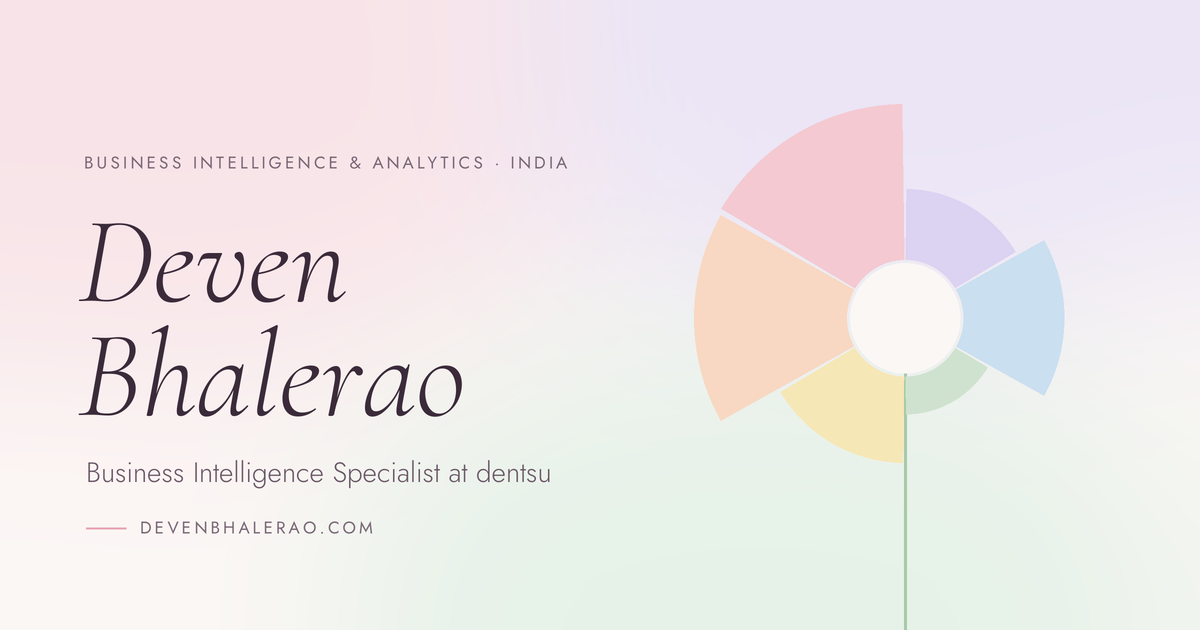
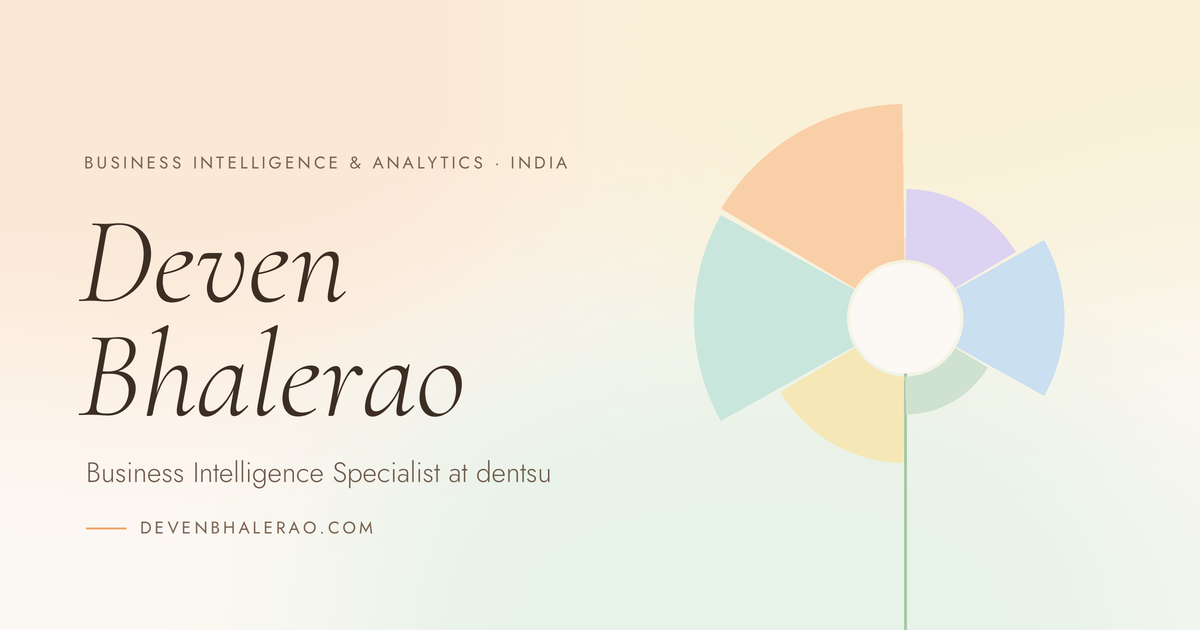
Warm the palette: apricot instead of pink
- Accent pastel blush becomes apricot (#f9cfa8 / #f0a96e): nav underlines,
  hovers, bullets, the award star, the email underline and the dentsu colour.
- Plum-tinted neutrals become warm browns; light paper is a creamier
  #fcf8f3, dark mode a warm charcoal #1a1612. Text contrast stays above
  4.5:1 in both themes.
- Chart colours stay distinct: JLL moves from peach to mint, the BI skill
  group from pink to lilac, the certification seal to butter, and the
  project kinds swap so apps are apricot and AI is mint.
- Background glows, favicon and og.png follow the new palette.
- Tokens renamed --blush/--peach to --apricot/--mint; styles.css and
  main.js bumped to ?v=4.

diff --git a/styles.css b/styles.css
@@ -21,45 +21,45 @@
   --gutter: clamp(16px, 5vw, 64px);
 
   /* Pastels stay the same in both themes */
-  --blush: #f4c9d1; --peach: #f8d8c2; --butter: #f6e7b6; --sage: #cfe2cf; --sky: #cadff0; --lilac: #dcd2f1;
-  --blush-d: #e9a5b4; --peach-d: #efbc9a; --butter-d: #e8d38a; --sage-d: #a8cfa8; --sky-d: #9fc4e4; --lilac-d: #b9aee0;
+  --apricot: #f9cfa8; --mint: #c9e6dc; --butter: #f6e7b6; --sage: #cfe2cf; --sky: #cadff0; --lilac: #dcd2f1;
+  --apricot-d: #f0a96e; --mint-d: #93cbb9; --butter-d: #e8d38a; --sage-d: #a8cfa8; --sky-d: #9fc4e4; --lilac-d: #b9aee0;
 
   /* Light theme */
   color-scheme: light;
-  --paper: #fbf7f5;
+  --paper: #fcf8f3;
   --panel: #ffffff;
-  --panel-2: #f7f1f3;
-  --ink: #3b2b3a;
-  --ink-2: #6b5868;
-  --ink-3: #7a6877;
-  --rule: #ecdfe4;
-  --rule-2: #e0d2d9;
-  --accent: #a24d6d;
-  --accent-soft: rgba(233, 165, 180, .22);
+  --panel-2: #f8f2ea;
+  --ink: #3d2e24;
+  --ink-2: #6e5a4c;
+  --ink-3: #7a6352;
+  --rule: #eee2d6;
+  --rule-2: #e3d3c3;
+  --accent: #a9531f;
+  --accent-soft: rgba(240, 169, 110, .22);
   --petal-core: #ffffff;
   --stem: #a9c9a8;
   --glow: .55;
-  --shadow: 0 1px 2px rgba(60, 30, 60, .06), 0 24px 50px -34px rgba(80, 40, 70, .35);
+  --shadow: 0 1px 2px rgba(70, 40, 20, .06), 0 24px 50px -34px rgba(90, 50, 25, .35);
 }
 
 @media (prefers-color-scheme: dark) {
   :root:not([data-theme="light"]) {
     color-scheme: dark;
-    --paper: #17141f; --panel: #201c2b; --panel-2: #262033;
-    --ink: #f1e9f1; --ink-2: #c4b6c6; --ink-3: #9d90a2;
-    --rule: #302a3c; --rule-2: #3c3449;
-    --accent: #f0b8c8; --accent-soft: rgba(240, 184, 200, .14);
-    --petal-core: #2a2436; --stem: #86a886; --glow: .16;
+    --paper: #1a1612; --panel: #231e19; --panel-2: #2a241e;
+    --ink: #f3ebe2; --ink-2: #c9baa9; --ink-3: #a39383;
+    --rule: #342c25; --rule-2: #41372e;
+    --accent: #f6bf8f; --accent-soft: rgba(246, 191, 143, .14);
+    --petal-core: #2d261f; --stem: #86a886; --glow: .16;
     --shadow: 0 1px 2px rgba(0, 0, 0, .3), 0 24px 50px -30px rgba(0, 0, 0, .65);
   }
 }
 :root[data-theme="dark"] {
   color-scheme: dark;
-  --paper: #17141f; --panel: #201c2b; --panel-2: #262033;
-  --ink: #f1e9f1; --ink-2: #c4b6c6; --ink-3: #9d90a2;
-  --rule: #302a3c; --rule-2: #3c3449;
-  --accent: #f0b8c8; --accent-soft: rgba(240, 184, 200, .14);
-  --petal-core: #2a2436; --stem: #86a886; --glow: .16;
+  --paper: #1a1612; --panel: #231e19; --panel-2: #2a241e;
+  --ink: #f3ebe2; --ink-2: #c9baa9; --ink-3: #a39383;
+  --rule: #342c25; --rule-2: #41372e;
+  --accent: #f6bf8f; --accent-soft: rgba(246, 191, 143, .14);
+  --petal-core: #2d261f; --stem: #86a886; --glow: .16;
   --shadow: 0 1px 2px rgba(0, 0, 0, .3), 0 24px 50px -30px rgba(0, 0, 0, .65);
 }
 
@@ -86,8 +86,8 @@ body::before {
   z-index: -1;
   opacity: var(--glow);
   background:
-    radial-gradient(40vw 30vh at 16% 26%, #f7dbe2, transparent 70%),
-    radial-gradient(36vw 28vh at 74% 16%, #e3dcf6, transparent 70%),
+    radial-gradient(40vw 30vh at 16% 26%, #fbe0c8, transparent 70%),
+    radial-gradient(36vw 28vh at 74% 16%, #f8ecc9, transparent 70%),
     radial-gradient(34vw 26vh at 52% 58%, #dcefe2, transparent 70%);
   filter: blur(10px);
 }
@@ -101,7 +101,7 @@ strong { font-weight: 500; }
 img, svg { display: block; max-width: 100%; }
 button { font: inherit; color: inherit; }
 :focus-visible { outline: 2px solid var(--accent); outline-offset: 3px; border-radius: 6px; }
-::selection { background: var(--blush); color: #3b2b3a; }
+::selection { background: var(--apricot); color: #3d2e24; }
 .mono { font-family: ui-monospace, 'SF Mono', Menlo, Consolas, monospace; font-size: .9em; }
 .sr-only, .enhanced .roles, .enhanced .honours {
   position: absolute !important; width: 1px; height: 1px; padding: 0; margin: -1px;
@@ -140,11 +140,11 @@ html:not(.motion-on) { scroll-behavior: auto; }
   font: 400 italic 17px/1 var(--display); letter-spacing: .02em; color: var(--ink);
   transition: border-color .4s var(--calm), transform .4s var(--calm);
 }
-.monogram:hover { border-color: var(--blush-d); transform: translateY(-1px); }
+.monogram:hover { border-color: var(--apricot-d); transform: translateY(-1px); }
 .topnav { margin-left: auto; display: flex; gap: clamp(14px, 2.4vw, 30px); font-size: 14.5px; overflow-x: auto; scrollbar-width: none; }
 .topnav::-webkit-scrollbar { display: none; }
 .topnav a { color: var(--ink-2); white-space: nowrap; padding-block: 4px; position: relative; transition: color .3s var(--calm); }
-.topnav a::after { content: ''; position: absolute; left: 0; right: 100%; bottom: 0; height: 1.5px; border-radius: 2px; background: var(--blush-d); transition: right .4s var(--calm); }
+.topnav a::after { content: ''; position: absolute; left: 0; right: 100%; bottom: 0; height: 1.5px; border-radius: 2px; background: var(--apricot-d); transition: right .4s var(--calm); }
 .topnav a:hover, .topnav a.is-active { color: var(--ink); }
 .topnav a:hover::after, .topnav a.is-active::after { right: 0; }
 .theme-toggle {
@@ -152,7 +152,7 @@ html:not(.motion-on) { scroll-behavior: auto; }
   background: transparent; border: 1px solid var(--rule-2); border-radius: 50%;
   color: var(--ink-2); cursor: pointer; transition: border-color .4s var(--calm), color .4s var(--calm);
 }
-.theme-toggle:hover { border-color: var(--blush-d); color: var(--ink); }
+.theme-toggle:hover { border-color: var(--apricot-d); color: var(--ink); }
 .theme-toggle svg { width: 17px; height: 17px; grid-area: 1 / 1; fill: none; stroke: currentColor; stroke-width: 1.7; stroke-linecap: round; stroke-linejoin: round; transition: opacity .4s var(--calm), transform .4s var(--calm); }
 /* The icon shows the theme the button switches to: a moon in light, a sun in dark. */
 .icon-sun { opacity: 0; transform: rotate(-40deg) scale(.6); }
@@ -172,7 +172,7 @@ html:not(.motion-on) { scroll-behavior: auto; }
   transition: border-color .4s var(--calm), transform .4s var(--calm);
 }
 .btn svg { width: 16px; height: 16px; fill: none; stroke: currentColor; stroke-width: 1.8; stroke-linecap: round; stroke-linejoin: round; }
-.btn:hover { border-color: var(--blush-d); transform: translateY(-1px); }
+.btn:hover { border-color: var(--apricot-d); transform: translateY(-1px); }
 .btn-primary { background: var(--ink); color: var(--paper); border-color: var(--ink); }
 .btn-primary:hover { border-color: var(--ink); }
 .btn-ghost { background: transparent; }
@@ -196,7 +196,7 @@ main { display: block; }
 }
 .js .info { display: inline-grid; }
 .info::before { content: ''; position: absolute; inset: -9px; border-radius: 50%; }
-.info:hover, .info.tip-on { border-color: var(--blush-d); color: var(--ink); }
+.info:hover, .info.tip-on { border-color: var(--apricot-d); color: var(--ink); }
 .chips { display: flex; flex-wrap: wrap; gap: 6px; }
 .chips li { padding: 5px 11px; border: 1px solid var(--rule); border-radius: 999px; background: var(--panel-2); font: 400 12.5px/1.25 var(--sans); color: var(--ink-2); }
 
@@ -281,9 +281,9 @@ main { display: block; }
 .ec-role { font-weight: 400; }
 .ec-pts { display: grid; gap: 8px; color: var(--ink-2); font-size: 15.5px; line-height: 1.6; }
 .ec-pts li { position: relative; padding-left: 18px; }
-.ec-pts li::before { content: ''; position: absolute; left: 2px; top: .72em; width: 6px; height: 6px; border-radius: 50%; background: var(--blush-d); }
+.ec-pts li::before { content: ''; position: absolute; left: 2px; top: .72em; width: 6px; height: 6px; border-radius: 50%; background: var(--apricot-d); }
 .ec-award { font-size: 15px; }
-.ec-award span { color: var(--blush-d); margin-right: 4px; }
+.ec-award span { color: var(--apricot-d); margin-right: 4px; }
 /* The roles list is the source for the chart. With JavaScript it's kept for screen readers only. */
 .roles { display: grid; gap: 30px; margin-top: 12px; }
 .roles > li { display: grid; gap: 8px; padding-left: 18px; border-left: 2px solid var(--rule-2); }
@@ -347,7 +347,7 @@ main { display: block; }
   background: var(--panel); border: 1px solid var(--rule); border-radius: 22px; box-shadow: var(--shadow);
   transition: transform .6s var(--calm), border-color .6s var(--calm);
 }
-a.proj:hover { transform: translateY(-3px); border-color: var(--blush-d); }
+a.proj:hover { transform: translateY(-3px); border-color: var(--apricot-d); }
 .proj-ring { display: block; width: 76px; height: 76px; }
 .proj-ring:empty { display: none; }
 .proj-ring svg { width: 100%; height: 100%; overflow: visible; }
@@ -362,7 +362,7 @@ a.proj:hover .ring-rot, a.proj:focus-visible .ring-rot { transform: rotate(120de
   transition: border-color .5s var(--calm), color .5s var(--calm);
 }
 .proj-go svg { width: 14px; height: 14px; fill: none; stroke: currentColor; stroke-width: 1.8; stroke-linecap: round; stroke-linejoin: round; transition: transform .5s var(--calm); }
-a.proj:hover .proj-go, a.proj:focus-visible .proj-go { border-color: var(--blush-d); color: var(--ink); }
+a.proj:hover .proj-go, a.proj:focus-visible .proj-go { border-color: var(--apricot-d); color: var(--ink); }
 a.proj:hover .proj-go svg, a.proj:focus-visible .proj-go svg { transform: translate(1.5px, -1.5px); }
 .proj-name { font: 400 italic 1.45rem/1.12 var(--display); margin-top: 4px; }
 .proj-desc { font-size: 14.5px; line-height: 1.6; color: var(--ink-2); }
@@ -399,8 +399,8 @@ a.proj:hover .proj-go svg, a.proj:focus-visible .proj-go svg { transform: transl
 .motion-on .run .seal.rev .sl-ring { animation-direction: reverse; }
 .seal:hover .sl-ring, .seal:focus-visible .sl-ring, .seal.tip-on .sl-ring, .rr.hl .sl-ring { animation-play-state: paused; }
 @keyframes spin { to { transform: rotate(360deg); } }
-.sl-tx { font: 500 8.5px var(--sans); letter-spacing: .1em; fill: #3b2b3a; opacity: .85; }
-.sl-c { font: 400 18px var(--display); fill: #3b2b3a; }
+.sl-tx { font: 500 8.5px var(--sans); letter-spacing: .1em; fill: #3d2e24; opacity: .85; }
+.sl-c { font: 400 18px var(--display); fill: #3d2e24; }
 /* The list the seals are built from; readable on its own without JavaScript */
 .honours { display: grid; gap: 14px; margin-top: 8px; }
 .honours li { display: grid; gap: 2px; padding-left: 16px; border-left: 2px solid var(--rule-2); }
@@ -413,15 +413,15 @@ a.proj:hover .proj-go svg, a.proj:focus-visible .proj-go svg { transform: transl
 .contact-mail { display: flex; flex-wrap: wrap; align-items: baseline; gap: 12px 20px; }
 .mail {
   font: 400 italic clamp(2rem, 6vw, 4.4rem)/1.1 var(--display); color: var(--ink); overflow-wrap: anywhere;
-  padding-bottom: 6px; background: linear-gradient(var(--blush-d), var(--blush-d)) no-repeat 0 100% / 100% 2px;
+  padding-bottom: 6px; background: linear-gradient(var(--apricot-d), var(--apricot-d)) no-repeat 0 100% / 100% 2px;
   transition: background-size 1.6s var(--calm) .3s;
 }
 .motion-on .contact-mail:not(.is-in) .mail { background-size: 0% 2px; }
 .copy { padding: 8px 15px; border: 1px solid var(--rule-2); border-radius: 999px; background: var(--panel); color: var(--ink-2); font: 400 13px/1 var(--sans); cursor: pointer; transition: border-color .4s var(--calm), color .4s var(--calm); }
-.copy:hover { border-color: var(--blush-d); color: var(--ink); }
+.copy:hover { border-color: var(--apricot-d); color: var(--ink); }
 .contact-links { display: flex; flex-wrap: wrap; gap: 10px 28px; margin-top: 30px; }
 .contact-links a { font: 400 13px/1 var(--sans); letter-spacing: .16em; text-transform: uppercase; color: var(--ink-2); padding-bottom: 5px; border-bottom: 1px solid var(--rule-2); transition: color .3s var(--calm), border-color .3s var(--calm); }
-.contact-links a:hover { color: var(--ink); border-color: var(--blush-d); }
+.contact-links a:hover { color: var(--ink); border-color: var(--apricot-d); }
 
 /* ── Footer ────────────────────────────────────────────────────────────── */
 
@@ -429,7 +429,7 @@ a.proj:hover .proj-go svg, a.proj:focus-visible .proj-go svg { transform: transl
 .footer-inner { max-width: var(--page-max); margin-inline: auto; padding: 26px var(--gutter) 34px; display: flex; flex-wrap: wrap; gap: 8px 24px; align-items: center; font-size: 13.5px; color: var(--ink-3); }
 .footer-copy { margin-right: auto; }
 .motion-toggle { padding: 7px 13px; border: 1px solid var(--rule-2); border-radius: 999px; background: transparent; color: var(--ink-2); font: 400 12.5px/1 var(--sans); cursor: pointer; }
-.motion-toggle:hover { border-color: var(--blush-d); color: var(--ink); }
+.motion-toggle:hover { border-color: var(--apricot-d); color: var(--ink); }
 
 /* ── 404 page ──────────────────────────────────────────────────────────── */
 
@@ -453,7 +453,7 @@ a.proj:hover .proj-go svg, a.proj:focus-visible .proj-go svg { transform: transl
 .steps li { counter-increment: step; position: relative; padding: 22px 20px 20px; background: var(--panel); border: 1px solid var(--rule); border-radius: 22px; box-shadow: var(--shadow); }
 .steps li::before {
   content: counter(step); display: grid; place-items: center; width: 34px; height: 34px; margin-bottom: 14px;
-  border-radius: 50%; background: var(--c, var(--blush)); color: #3b2b3a; font: 400 19px/1 var(--display); font-variant-numeric: lining-nums;
+  border-radius: 50%; background: var(--c, var(--apricot)); color: #3d2e24; font: 400 19px/1 var(--display); font-variant-numeric: lining-nums;
 }
 .steps h3 { font: 400 italic 1.4rem/1.15 var(--display); }
 .steps p { margin-top: 6px; font-size: 14.5px; line-height: 1.6; color: var(--ink-2); }

diff --git a/main.js b/main.js
@@ -140,8 +140,8 @@
   function ym(s) { if (!s) return null; var p = s.split('-'); return [Number(p[0]), Number(p[1] || 1)]; }
   function idx(a) { return a[0] * 12 + a[1]; }
   // Each employer keeps one colour everywhere: petal, leaf and flow.
-  var RCOL = { ia: '#dcd2f1', rama: '#cadff0', erf: '#cfe2cf', fico: '#f6e7b6', jll: '#f8d8c2', dentsu: '#f4c9d1' };
-  var RDEEP = { ia: '#b9aee0', rama: '#9fc4e4', erf: '#a8cfa8', fico: '#e8d38a', jll: '#efbc9a', dentsu: '#e9a5b4' };
+  var RCOL = { ia: '#dcd2f1', rama: '#cadff0', erf: '#cfe2cf', fico: '#f6e7b6', jll: '#c9e6dc', dentsu: '#f9cfa8' };
+  var RDEEP = { ia: '#b9aee0', rama: '#9fc4e4', erf: '#a8cfa8', fico: '#e8d38a', jll: '#93cbb9', dentsu: '#f0a96e' };
   var ROLES = $$('#roles > li').map(function (li) {
     var s = ym(li.getAttribute('data-start')), e = ym(li.getAttribute('data-end'));
     return {
@@ -170,7 +170,7 @@
     var defs = '', body = '', data = [];
     function P(a, rad) { return (Math.cos(a) * rad).toFixed(2) + ' ' + (Math.sin(a) * rad).toFixed(2); }
     ROLES.forEach(function (r, i) {
-      var a0 = -Math.PI / 2 + i * TAU / n + gap / 2, a1 = a0 + TAU / n - gap, c = RCOL[r.id] || '#e8dfe6';
+      var a0 = -Math.PI / 2 + i * TAU / n + gap / 2, a1 = a0 + TAU / n - gap, c = RCOL[r.id] || '#ece2d8';
       var rr = Math.sqrt(HOLE * HOLE + (R * R - HOLE * HOLE) * r.months / maxM);
       var d = 'M' + P(a0, HOLE) + ' L' + P(a0, rr) + ' A' + f1(rr) + ' ' + f1(rr) + ' 0 0 1 ' + P(a1, rr) + ' L' + P(a1, HOLE) + ' A' + HOLE + ' ' + HOLE + ' 0 0 0 ' + P(a0, HOLE) + 'Z';
       defs += '<radialGradient id="' + prefix + i + '" cx="0" cy="0" r="' + f1(rr) + '" gradientUnits="userSpaceOnUse"><stop offset=".2" style="stop-color:var(--petal-core)"/><stop offset=".55" stop-color="' + c + '" stop-opacity=".85"/><stop offset="1" stop-color="' + c + '"/></radialGradient>';
@@ -381,14 +381,14 @@
   safe('skills', function () {
     var svg = $('#flow'), stage = $('#flow-stage'), line = $('#flow-line'), box = $('#skill-groups');
     if (!svg || !box || !ROLES.length) return;
-    var GCOL = { ads: '#f5c6a8', bi: '#e9b8d3', data: '#b3d6ea', eng: '#bfe3cd' };
+    var GCOL = { ads: '#f9cfa8', bi: '#dccff0', data: '#b3d6ea', eng: '#bfe3cd' };
     // Names on the role chips that differ from the skills lists
     var ALIAS = { 'Meta': 'Meta Ads', 'TikTok': 'TikTok Ads', 'MongoDB': 'MERN stack', 'Express.js': 'MERN stack', 'React': 'MERN stack', 'Node.js': 'MERN stack' };
     var EXTRA = { 'Waterline': 'eng', 'Eclipse': 'eng' };
     var groups = $$('.sg', box).map(function (el) {
       var key = el.getAttribute('data-group');
       el.style.setProperty('--c', GCOL[key]);
-      return { key: key, el: el, name: $('h3', el).textContent.trim(), color: GCOL[key] || '#e8dfe6', skills: $$('li', el).map(function (li) { return li.textContent.trim(); }) };
+      return { key: key, el: el, name: $('h3', el).textContent.trim(), color: GCOL[key] || '#ece2d8', skills: $$('li', el).map(function (li) { return li.textContent.trim(); }) };
     });
     function groupOf(tool) {
       var t = ALIAS[tool] || tool, i;
@@ -434,8 +434,8 @@
 
   safe('projects', function () {
     var KIND = {
-      code: { name: 'Code', c: '#9fc4e4' }, data: { name: 'Data', c: '#a8cfa8' }, app: { name: 'Apps and web', c: '#efbc9a' },
-      ai: { name: 'AI and ML', c: '#e9a5b4' }, media: { name: 'Media', c: '#b9aee0' }, doc: { name: 'Research and writing', c: '#e8d38a' }
+      code: { name: 'Code', c: '#9fc4e4' }, data: { name: 'Data', c: '#a8cfa8' }, app: { name: 'Apps and web', c: '#f0a96e' },
+      ai: { name: 'AI and ML', c: '#93cbb9' }, media: { name: 'Media', c: '#b9aee0' }, doc: { name: 'Research and writing', c: '#e8d38a' }
     };
     var grid = $('#proj-grid'), R = 26, gap = 10 * Math.PI / 180;
     if (!grid) return;
@@ -462,10 +462,10 @@
     var box = $('#rec'), wrap = $('#rec-rows'), list = $('#honours');
     if (!box || !wrap || !list) return;
     var KINDS = [
-      { key: 'work', label: 'Awards at work', c: '#f4c9d1', d: '#e9a5b4', t: '#a24d6d' },
+      { key: 'work', label: 'Awards at work', c: '#f9cfa8', d: '#f0a96e', t: '#a3561f' },
       { key: 'degree', label: 'Degrees', c: '#dcd2f1', d: '#b9aee0', t: '#6f5fa8' },
       { key: 'hack', label: 'Hackathons', c: '#cfe2cf', d: '#a8cfa8', t: '#4f7f54' },
-      { key: 'cert', label: 'Certification', c: '#f8d8c2', d: '#efbc9a', t: '#a8643c' }
+      { key: 'cert', label: 'Certification', c: '#f6e7b6', d: '#e8d38a', t: '#7d6410' }
     ];
     var items = $$('li', list).map(function (li) {
       return { li: li, kind: li.getAttribute('data-kind'), date: li.getAttribute('data-date') || '', mid: li.getAttribute('data-mid') || '', ring: li.getAttribute('data-ring') || '', name: $('strong', li).textContent.trim() };

diff --git a/projects/youtube-polyglot/index.html b/projects/youtube-polyglot/index.html
@@ -7,8 +7,8 @@
 <meta name="description" content="YouTube Polyglot is a Streamlit app by Deven Bhalerao that transcribes any YouTube video with Sarvam AI's saaras speech-to-text model and translates it into ten Indian languages.">
 <meta name="author" content="Deven Bhalerao">
 <link rel="canonical" href="https://devenbhalerao.com/projects/youtube-polyglot/">
-<meta name="theme-color" content="#17141f" media="(prefers-color-scheme: dark)">
-<meta name="theme-color" content="#fbf7f5" media="(prefers-color-scheme: light)">
+<meta name="theme-color" content="#1a1612" media="(prefers-color-scheme: dark)">
+<meta name="theme-color" content="#fcf8f3" media="(prefers-color-scheme: light)">
 
 <meta property="og:type" content="article">
 <meta property="og:url" content="https://devenbhalerao.com/projects/youtube-polyglot/">
@@ -22,7 +22,7 @@
 <link rel="icon" href="/assets/favicon.svg" type="image/svg+xml">
 <link rel="preload" href="/assets/fonts/cormorant-garamond-italic-latin.woff2" as="font" type="font/woff2" crossorigin>
 <link rel="preload" href="/assets/fonts/jost-latin.woff2" as="font" type="font/woff2" crossorigin>
-<link rel="stylesheet" href="/styles.css?v=3">
+<link rel="stylesheet" href="/styles.css?v=4">
 <script>
   (function () {
     var root = document.documentElement;
@@ -93,9 +93,9 @@
 
   <h2>How it works</h2>
   <ol class="steps">
-    <li style="--c:var(--peach)"><h3>Paste a link</h3><p>A YouTube URL, plus the language the video is in and the language you want to read it in.</p></li>
+    <li style="--c:var(--apricot)"><h3>Paste a link</h3><p>A YouTube URL, plus the language the video is in and the language you want to read it in.</p></li>
     <li style="--c:var(--lilac)"><h3>Pull the audio</h3><p>yt-dlp downloads the best audio track, and FFmpeg converts it to WAV.</p></li>
-    <li style="--c:var(--blush)"><h3>Transcribe</h3><p>Sarvam AI's <strong>saaras:v3</strong> speech-to-text model writes out what was said.</p></li>
+    <li style="--c:var(--butter)"><h3>Transcribe</h3><p>Sarvam AI's <strong>saaras:v3</strong> speech-to-text model writes out what was said.</p></li>
     <li style="--c:var(--sage)"><h3>Translate</h3><p>Sarvam's <strong>sarvam-translate:v1</strong> model translates the transcript. If both languages match, this step is skipped.</p></li>
   </ol>
 
@@ -127,6 +127,6 @@
   </div>
 </footer>
 
-<script src="/main.js?v=3" defer></script>
+<script src="/main.js?v=4" defer></script>
 </body>
 </html>

diff --git a/projects/earnings-manipulation/index.html b/projects/earnings-manipulation/index.html
@@ -7,8 +7,8 @@
 <meta name="description" content="An MBA case study by Deven Bhalerao: five R classification models, from logistic regression to XGBoost, predicting earnings manipulation from the eight Beneish M-score ratios of 1,239 companies.">
 <meta name="author" content="Deven Bhalerao">
 <link rel="canonical" href="https://devenbhalerao.com/projects/earnings-manipulation/">
-<meta name="theme-color" content="#17141f" media="(prefers-color-scheme: dark)">
-<meta name="theme-color" content="#fbf7f5" media="(prefers-color-scheme: light)">
+<meta name="theme-color" content="#1a1612" media="(prefers-color-scheme: dark)">
+<meta name="theme-color" content="#fcf8f3" media="(prefers-color-scheme: light)">
 
 <meta property="og:type" content="article">
 <meta property="og:url" content="https://devenbhalerao.com/projects/earnings-manipulation/">
@@ -22,7 +22,7 @@
 <link rel="icon" href="/assets/favicon.svg" type="image/svg+xml">
 <link rel="preload" href="/assets/fonts/cormorant-garamond-italic-latin.woff2" as="font" type="font/woff2" crossorigin>
 <link rel="preload" href="/assets/fonts/jost-latin.woff2" as="font" type="font/woff2" crossorigin>
-<link rel="stylesheet" href="/styles.css?v=3">
+<link rel="stylesheet" href="/styles.css?v=4">
 <script>
   (function () {
     var root = document.documentElement;
@@ -119,7 +119,7 @@
   <ol class="steps">
     <li style="--c:var(--sky)"><h3>Logistic regression</h3><p>The baseline, also checked with an ROC curve.</p></li>
     <li style="--c:var(--sage)"><h3>Decision tree</h3><p>CART, pruned at the complexity with the lowest cross-validated error.</p></li>
-    <li style="--c:var(--peach)"><h3>Random forest</h3><p>100 trees, with a ranking of which ratios matter most.</p></li>
+    <li style="--c:var(--apricot)"><h3>Random forest</h3><p>100 trees, with a ranking of which ratios matter most.</p></li>
     <li style="--c:var(--lilac)"><h3>SVM and XGBoost</h3><p>A linear support vector machine, and gradient-boosted trees over 100 rounds.</p></li>
   </ol>
   <div class="prose"><p>Every model was judged on a held-out test set, with a confusion matrix.</p></div>
@@ -141,6 +141,6 @@
   </div>
 </footer>
 
-<script src="/main.js?v=3" defer></script>
+<script src="/main.js?v=4" defer></script>
 </body>
 </html>

diff --git a/index.html b/index.html
@@ -7,8 +7,8 @@
 <meta name="description" content="Deven Bhalerao is a business intelligence specialist at dentsu, building reporting in Looker Studio, Power BI and Tableau. Previously JLL and FICO. Based in India.">
 <meta name="author" content="Deven Bhalerao">
 <link rel="canonical" href="https://devenbhalerao.com/">
-<meta name="theme-color" content="#17141f" media="(prefers-color-scheme: dark)">
-<meta name="theme-color" content="#fbf7f5" media="(prefers-color-scheme: light)">
+<meta name="theme-color" content="#1a1612" media="(prefers-color-scheme: dark)">
+<meta name="theme-color" content="#fcf8f3" media="(prefers-color-scheme: light)">
 
 <meta property="og:type" content="profile">
 <meta property="og:url" content="https://devenbhalerao.com/">
@@ -26,7 +26,7 @@
 <link rel="apple-touch-icon" href="assets/favicon.svg">
 <link rel="preload" href="assets/fonts/cormorant-garamond-italic-latin.woff2" as="font" type="font/woff2" crossorigin>
 <link rel="preload" href="assets/fonts/jost-latin.woff2" as="font" type="font/woff2" crossorigin>
-<link rel="stylesheet" href="styles.css?v=3">
+<link rel="stylesheet" href="styles.css?v=4">
 
 <script>
   // Set the theme and the animation preference before first paint, so nothing flashes.
@@ -394,6 +394,6 @@
   </div>
 </footer>
 
-<script src="main.js?v=3" defer></script>
+<script src="main.js?v=4" defer></script>
 </body>
 </html>

diff --git a/404.html b/404.html
@@ -5,10 +5,10 @@
 <meta name="viewport" content="width=device-width, initial-scale=1">
 <title>Not found — Deven Bhalerao</title>
 <meta name="robots" content="noindex">
-<meta name="theme-color" content="#17141f" media="(prefers-color-scheme: dark)">
-<meta name="theme-color" content="#fbf7f5" media="(prefers-color-scheme: light)">
+<meta name="theme-color" content="#1a1612" media="(prefers-color-scheme: dark)">
+<meta name="theme-color" content="#fcf8f3" media="(prefers-color-scheme: light)">
 <link rel="icon" href="/assets/favicon.svg" type="image/svg+xml">
-<link rel="stylesheet" href="/styles.css?v=3">
+<link rel="stylesheet" href="/styles.css?v=4">
 <script>
   // Same theme and animation preferences as the front page
   (function () {
